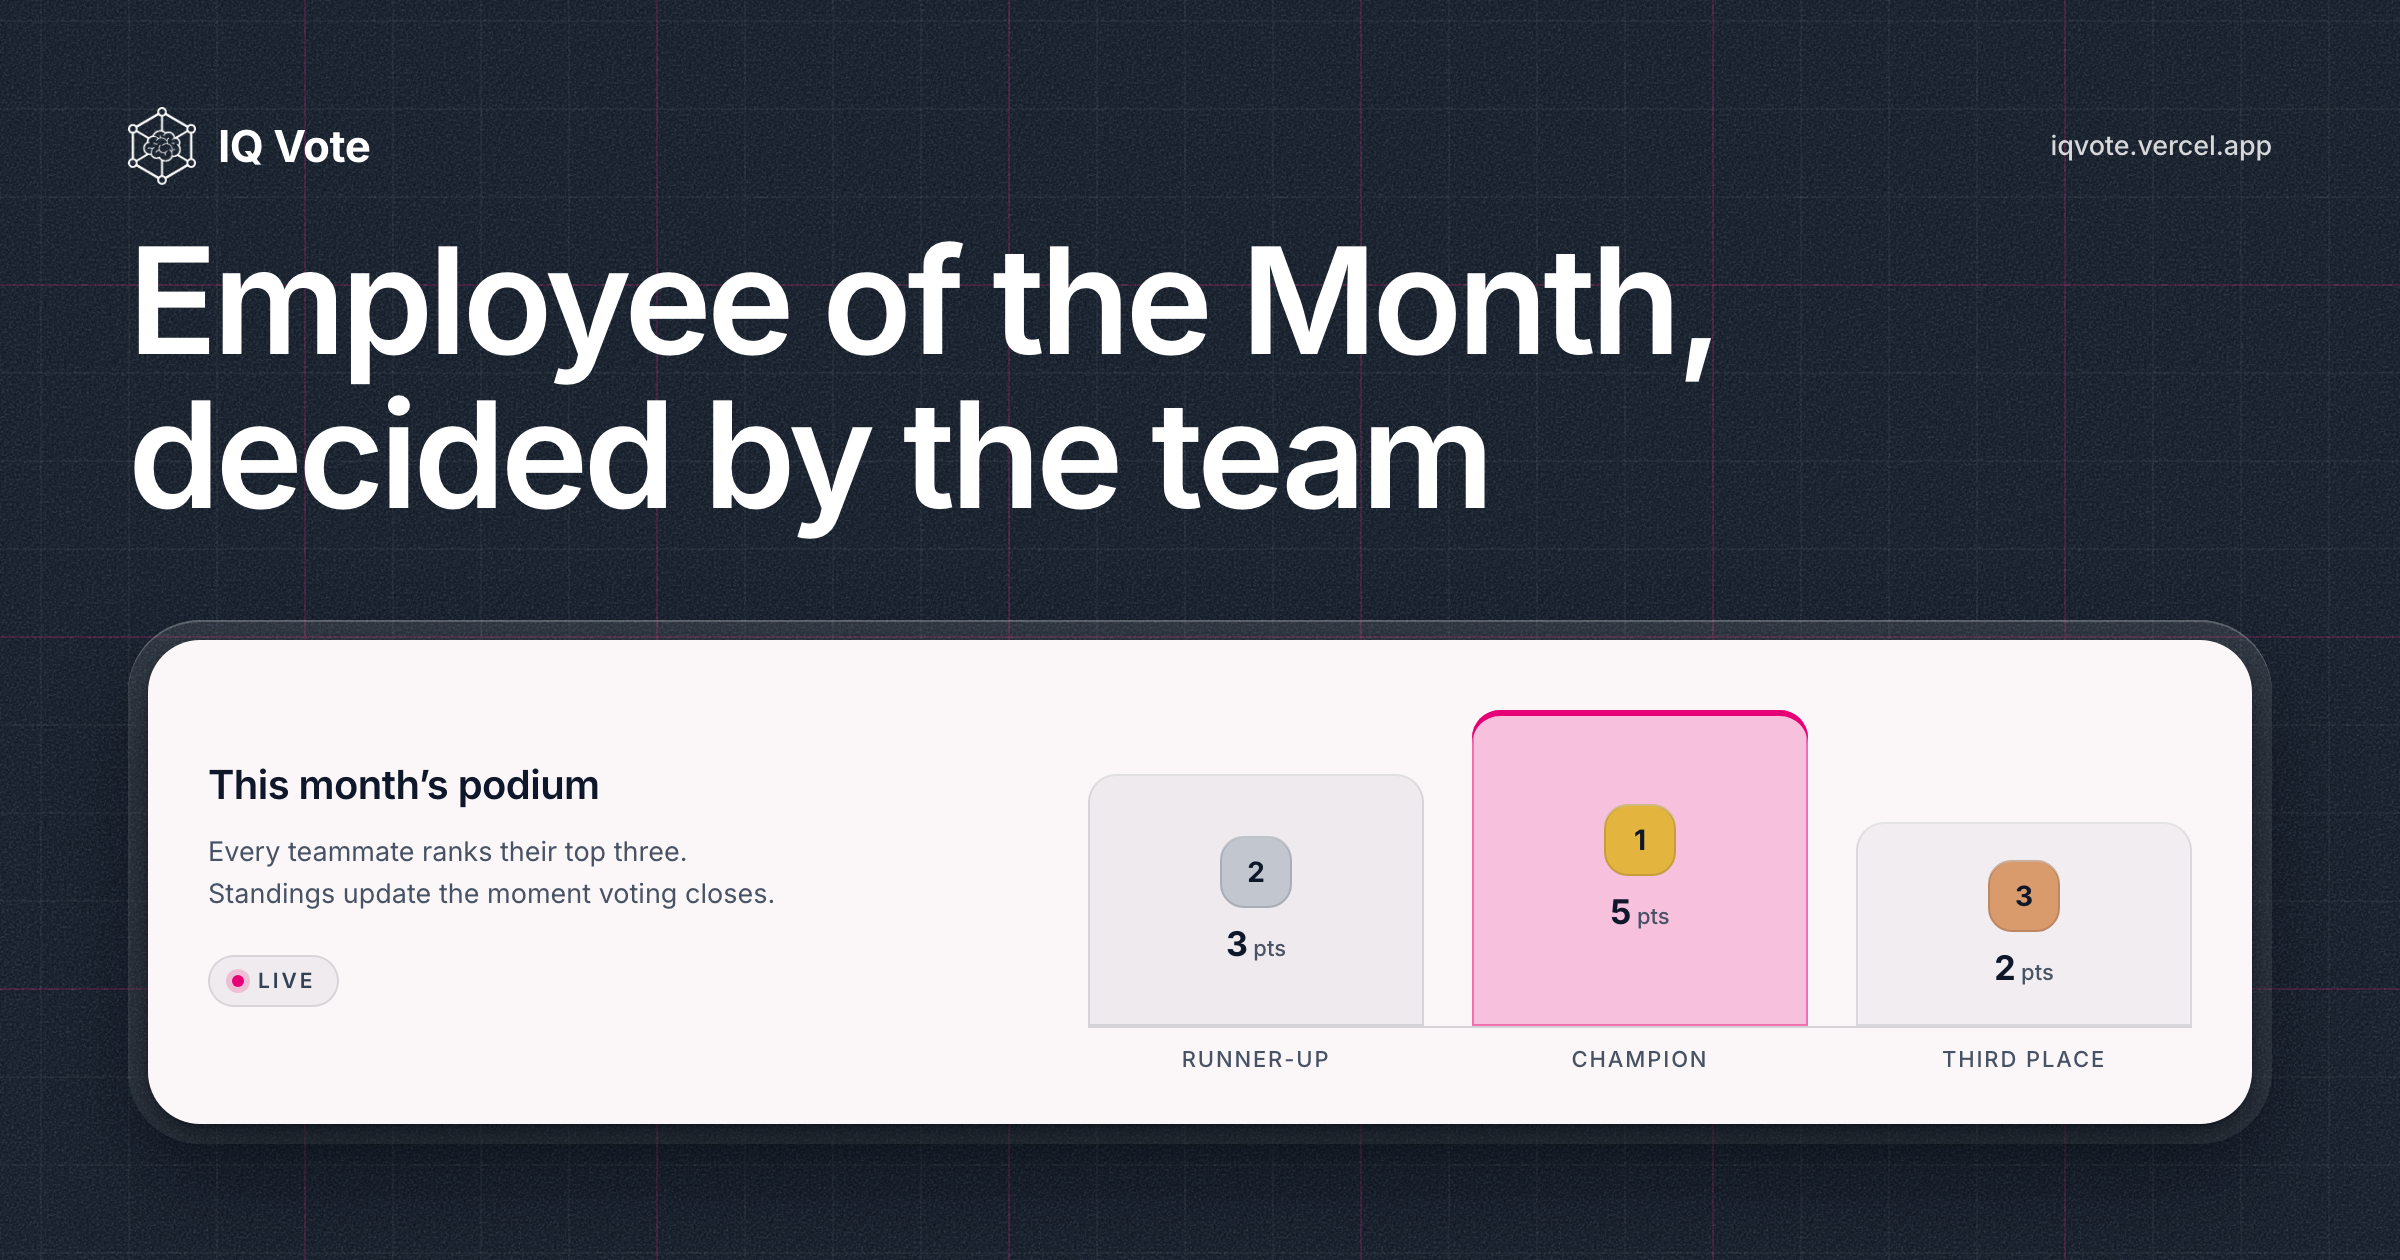
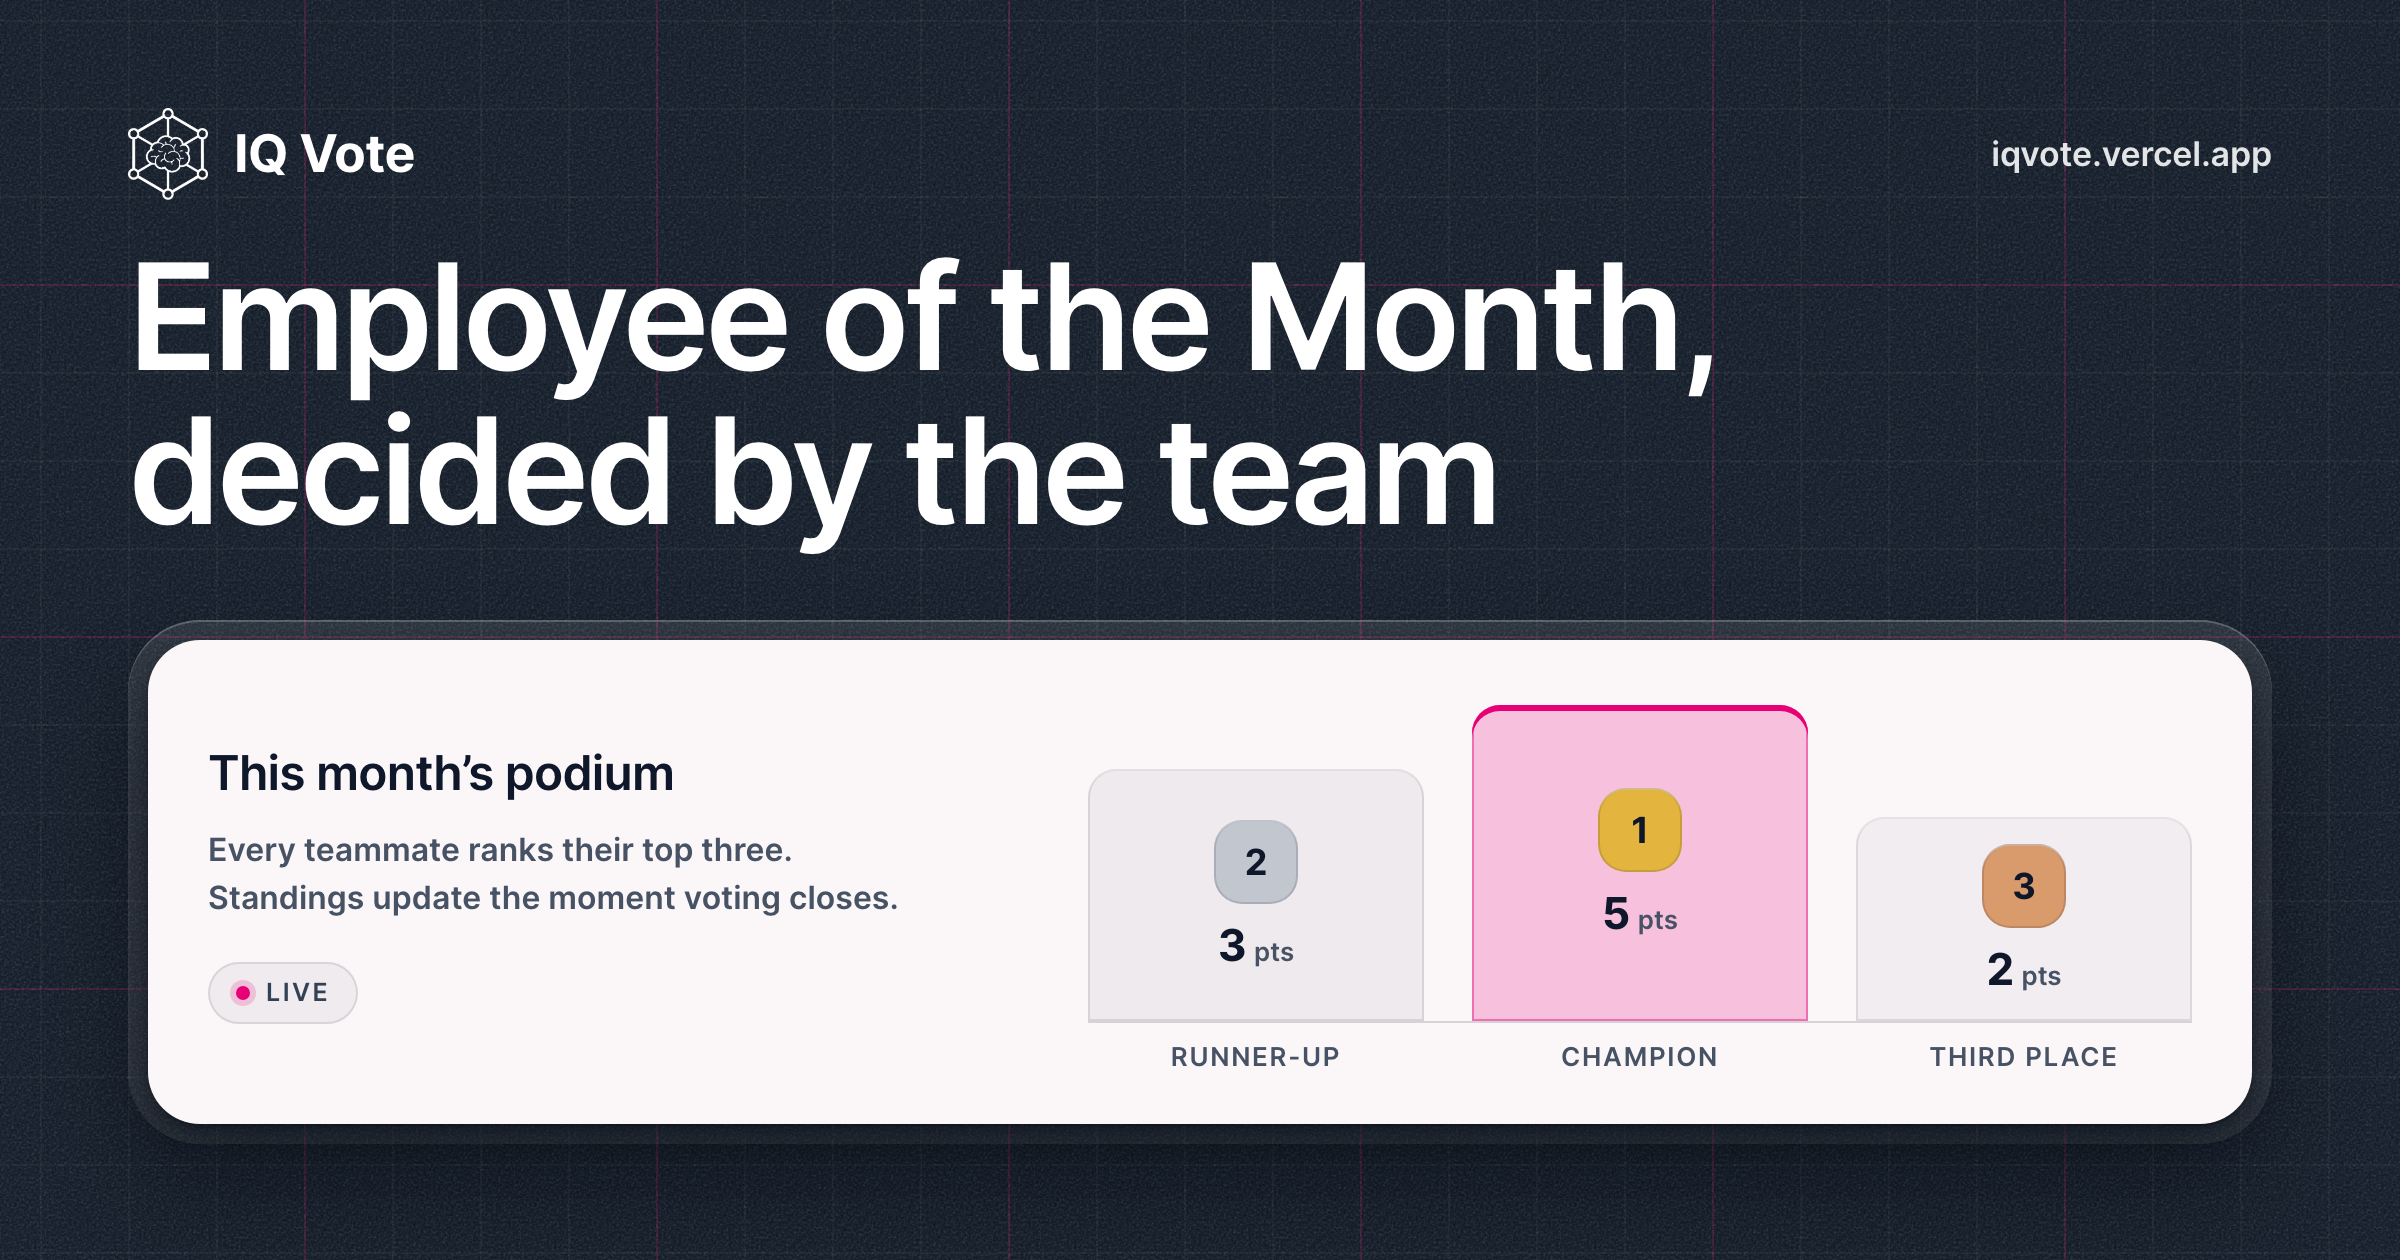
fix(og): raise type off the legibility floor so the card reads when shared
The asset was never blurry — it renders sharp at 2400x1260 and a fresh render
matches the shipped bytes exactly. The blur was small type: Discord shows a
large embed inline at ~400px, so the card is read at a third of its design
size, and the URL was set at 13.5px — 4.5px on screen.

Raise every sub-22px element ~20-30% linear, composition untouched (ground,
grid, grain, pink lattice, podium heights, headline and all colours unchanged):

  iqvote.vercel.app   13.5/w500 -> 17/w600
  IQ Vote wordmark    22 -> 26   (logo 34x39 -> 40x46, rail 38 -> 46)
  card heading        20 -> 24
  card body copy      13.5 -> 16 (max-width 340 -> 384)
  podium numerals     14 -> 18   (medal 36 -> 42)
  points / pts        17 -> 22 / 11 -> 13
  rank labels         11 -> 13
  LIVE chip           10.5 -> 12.5

Letter-spacing comes *down* as the uppercase labels grow (LIVE 0.14 -> 0.10em,
ranks 0.085 -> 0.065em): wide tracking was doing the work size should do, and
it is what smears small caps into a grey band when downscaled.

3x was measured and rejected — 3600x1890 lands within +/-1% of the 2400px
source at every display width to 2048px, because past 2x both sources are being
downscaled anyway. It would double the file for no measurable gain.

Verified against delivered pixels: paper edges 74.0/1125.5 and ink span
unchanged after the resize (nothing overflowed), and the installed PNG has 0.0
mean difference from a fresh render of the source.
[…]

diff --git a/src/imports/OgImage.tsx b/src/imports/OgImage.tsx
@@ -14,6 +14,12 @@
  *   the running app, so it must not inherit from — or leak into — app CSS.
  * - Contrast is measured, not estimated. Worst pair on the card is 5.10:1
  *   (muted text on the champion step face); everything else is higher.
+ * - Type sizes are set against a legibility floor, not chosen for the 1200px
+ *   view. Discord shows a large embed inline at ~400px, so everything here
+ *   divides by three when it is actually read. Nothing but the headline is
+ *   allowed to shrink for composition's sake, and small uppercase labels carry
+ *   *less* tracking as they grow — wide tracking is what smears them when
+ *   downscaled. See docs/og-image.md for the measured table.
  */
 
 const css = `
@@ -95,16 +101,16 @@ const css = `
 }
 
 /* 1 — top rail: lockup left, URL anchoring the right corner */
-.og-rail { display: flex; align-items: center; justify-content: space-between; height: 38px; }
-.og-lockup { display: flex; align-items: center; gap: 11px; }
-.og-lockup img { width: 34px; height: 39px; display: block; }
-.og-lockup span { font-size: 22px; font-weight: 700; letter-spacing: -0.012em; line-height: 1.2; color: #fff; }
+.og-rail { display: flex; align-items: center; justify-content: space-between; height: 46px; }
+.og-lockup { display: flex; align-items: center; gap: 13px; }
+.og-lockup img { width: 40px; height: 46px; display: block; }
+.og-lockup span { font-size: 26px; font-weight: 700; letter-spacing: -0.014em; line-height: 1.2; color: #fff; }
 .og-url {
-  font-size: 13.5px;
-  font-weight: 500;
+  font-size: 17px;
+  font-weight: 600;
   line-height: 1.2;
-  letter-spacing: -0.005em;
-  color: rgba(255, 255, 255, 0.82);
+  letter-spacing: -0.006em;
+  color: rgba(255, 255, 255, 0.88);
 }
 
 /* 2 — headline: size carries it, not weight */
@@ -143,13 +149,13 @@ const css = `
 }
 
 .og-brief { flex: 1; display: flex; flex-direction: column; justify-content: center; }
-.og-brief h2 { font-size: 20px; font-weight: 600; letter-spacing: -0.014em; line-height: 1.2; color: var(--og-ink); }
+.og-brief h2 { font-size: 24px; font-weight: 600; letter-spacing: -0.016em; line-height: 1.2; color: var(--og-ink); }
 .og-brief p {
-  margin-top: 11px;
-  max-width: 340px;
-  font-size: 13.5px;
+  margin-top: 12px;
+  max-width: 384px;
+  font-size: 16px;
   font-weight: 400;
-  line-height: 1.55;
+  line-height: 1.5;
   color: var(--og-ink-soft);
   text-wrap: balance;
 }
@@ -158,22 +164,22 @@ const css = `
   margin-top: 20px;
   display: inline-flex;
   align-items: center;
-  gap: 7px;
-  height: 26px;
-  padding: 0 12px;
+  gap: 8px;
+  height: 31px;
+  padding: 0 14px;
   border-radius: 999px;
   background: rgba(15, 23, 42, 0.05);
   box-shadow: inset 0 0 0 1px rgba(15, 23, 42, 0.10);
-  font-size: 10.5px;
+  font-size: 12.5px;
   font-weight: 600;
-  letter-spacing: 0.14em;
+  letter-spacing: 0.10em;
   text-transform: uppercase;
   line-height: 1;
   color: var(--og-ink-mid);
 }
 .og-chip i {
-  width: 6px;
-  height: 6px;
+  width: 7px;
+  height: 7px;
   border-radius: 999px;
   background: var(--og-primary);
   box-shadow: 0 0 0 3px rgba(231, 0, 117, 0.18);
@@ -209,13 +215,13 @@ const css = `
 }
 
 .og-medal {
-  width: 36px;
-  height: 36px;
-  border-radius: 12px;
+  width: 42px;
+  height: 42px;
+  border-radius: 14px;
   display: flex;
   align-items: center;
   justify-content: center;
-  font-size: 14px;
+  font-size: 18px;
   font-weight: 700;
   line-height: 1;
   color: var(--og-ink);
@@ -225,17 +231,17 @@ const css = `
 .og-m2 { background: var(--og-medal-2); }
 .og-m3 { background: var(--og-medal-3); }
 
-.og-pts { font-size: 17px; font-weight: 700; letter-spacing: -0.014em; line-height: 1.15; color: var(--og-ink); }
-.og-pts small { font-size: 11px; font-weight: 500; letter-spacing: 0; color: var(--og-ink-soft); margin-left: 3px; }
+.og-pts { font-size: 22px; font-weight: 700; letter-spacing: -0.016em; line-height: 1.15; color: var(--og-ink); }
+.og-pts small { font-size: 13px; font-weight: 500; letter-spacing: 0; color: var(--og-ink-soft); margin-left: 4px; }
 
 .og-floor { height: 1px; background: rgba(15, 23, 42, 0.16); }
 .og-ranks { margin-top: 9px; display: flex; gap: 24px; }
 .og-ranks span {
   flex: 1;
   text-align: center;
-  font-size: 11px;
+  font-size: 13px;
   font-weight: 500;
-  letter-spacing: 0.085em;
+  letter-spacing: 0.065em;
   text-transform: uppercase;
   line-height: 1.2;
   color: var(--og-ink-soft);

diff --git a/index.html b/index.html
@@ -36,8 +36,8 @@
     <!-- OG / Social sharing -->
     <meta property="og:title" content="IQ Vote - Employee of the Month Voting" />
     <meta property="og:description" content="Modern employee recognition platform with frictionless voting experience" />
-    <meta property="og:image" content="https://iqvote.vercel.app/og-image.png?v=2" />
-    <meta property="og:image:secure_url" content="https://iqvote.vercel.app/og-image.png?v=2" />
+    <meta property="og:image" content="https://iqvote.vercel.app/og-image.png?v=3" />
+    <meta property="og:image:secure_url" content="https://iqvote.vercel.app/og-image.png?v=3" />
     <meta property="og:image:type" content="image/png" />
     <meta property="og:image:width" content="2400" />
     <meta property="og:image:height" content="1260" />
@@ -49,7 +49,7 @@
     <meta name="twitter:card" content="summary_large_image" />
     <meta name="twitter:title" content="IQ Vote - Employee of the Month Voting" />
     <meta name="twitter:description" content="Modern employee recognition platform with frictionless voting experience" />
-    <meta name="twitter:image" content="https://iqvote.vercel.app/og-image.png?v=2" />
+    <meta name="twitter:image" content="https://iqvote.vercel.app/og-image.png?v=3" />
   </head>
 
   <body>

diff --git a/src/App.tsx b/src/App.tsx
@@ -15,7 +15,7 @@ import { Toaster } from './components/ui/sonner';
 import logoImageLight from 'figma:asset/adf5897e345947bbe763382a76a190054bc17e88.png';
 import logoImageDark from 'figma:asset/edd81dc1188a78ee35f46489ff2f13306860893c.png';
 
-const ogImage = '/og-image.png?v=2';
+const ogImage = '/og-image.png?v=3';
 
 export default function App() {
   // Check if we should render the OG image preview page

diff --git a/docs/og-image.md b/docs/og-image.md
@@ -48,8 +48,52 @@ Measure it with edge standard deviation, not by eye:
 python3 -c "from PIL import Image, ImageFilter, ImageStat; im=Image.open('public/og-image.png').convert('RGB').resize((1712,899), Image.LANCZOS); print(ImageStat.Stat(im.convert('L').filter(ImageFilter.FIND_EDGES)).stddev[0])"
 ```
 
-Cost is file size: 1.32 MB versus 492 KB. That is comfortably inside every
+Cost is file size: 1.39 MB versus 492 KB. That is comfortably inside every
 platform cap (Twitter and LinkedIn 5 MB, Facebook 8 MB).
+
+**3× was measured and rejected.** A 3600 × 1890 source is within ±1% of the
+2400px source at every display width up to 2048 — 400px: +0.1%, 800px: −0.3%,
+1712px: −0.4%, 2048px: −0.9%. That is noise, not a gain, and it is exactly what
+the logic above predicts: past 2×, every real display width is *down*scaling
+either source, and downscaling is already sharp. 3× doubles the file to 2.74 MB
+and buys nothing. Do not go past 2×.
+
+## The real legibility limit is type size, not resolution
+
+If the card reads as "blurry" and the asset is provably sharp, the cause is
+almost certainly type size, and no amount of resolution will touch it.
+
+Discord renders a large embed **inline at roughly 400 CSS px wide** — the card is
+being shown at about a third of its design size. (The ~1712px figure above is the
+*expanded* view you get after clicking, which is a different and much rarer
+case.) So every type size in the design divides by three:
+
+| element | design | at 400px inline |
+|---|---|---|
+| headline | 74px | 24.7px |
+| `IQ Vote` wordmark | 26px | 8.7px |
+| `iqvote.vercel.app` | 17px | 5.7px |
+| card heading | 24px | 8.0px |
+| card body copy | 16px | 5.3px |
+| podium numerals | 18px | 6.0px |
+| points | 22px | 7.3px |
+| `pts` / rank labels | 13px | 4.3px |
+
+Those figures are *after* the legibility pass, and most of them are still under
+8px — because a 1200px-wide composition physically cannot make eight distinct
+text elements legible at 400px. Only the headline survives at that size, which
+is what a headline is for. The pass raised every sub-22px element by ~20–30%
+linear, which is decisive at the expanded and desktop-client widths and a real
+but partial improvement in the small inline thumbnail.
+
+If full legibility in the 400px inline thumbnail is ever the requirement, the fix
+is fewer and larger elements — a genuinely simpler card — not more pixels.
+
+One counter-intuitive rule from this pass: **as a small uppercase label gets
+bigger, its letter-spacing should come down.** The `LIVE` chip and the rank
+labels were carrying 0.14em and 0.085em, which is tracking doing the job size
+should be doing; wide tracking is what makes small uppercase text smear into a
+grey band when it is downscaled. They are now 0.10em and 0.065em.
 
 Dimensions matter: keep the 1.91:1 ratio. Off-ratio images get cropped
 unpredictably per platform.
@@ -60,7 +104,7 @@ Platforms cache the scraped image hard, and Discord is the worst case — it
 caches the page embed *and* re-hosts the image on its own proxy, with no public
 purge tool. Changing bytes at the same URL will not dislodge it.
 
-So the image URL carries a version query: `og-image.png?v=2`, set in **both**
+So the image URL carries a version query: `og-image.png?v=3`, set in **both**
 `index.html` (the static tags scrapers read, since they do not run JS) and
 `App.tsx` (the runtime injection). **Bump that `v=` on every future image
 change, in both files, or the new card will not propagate.** Twitter's Card
